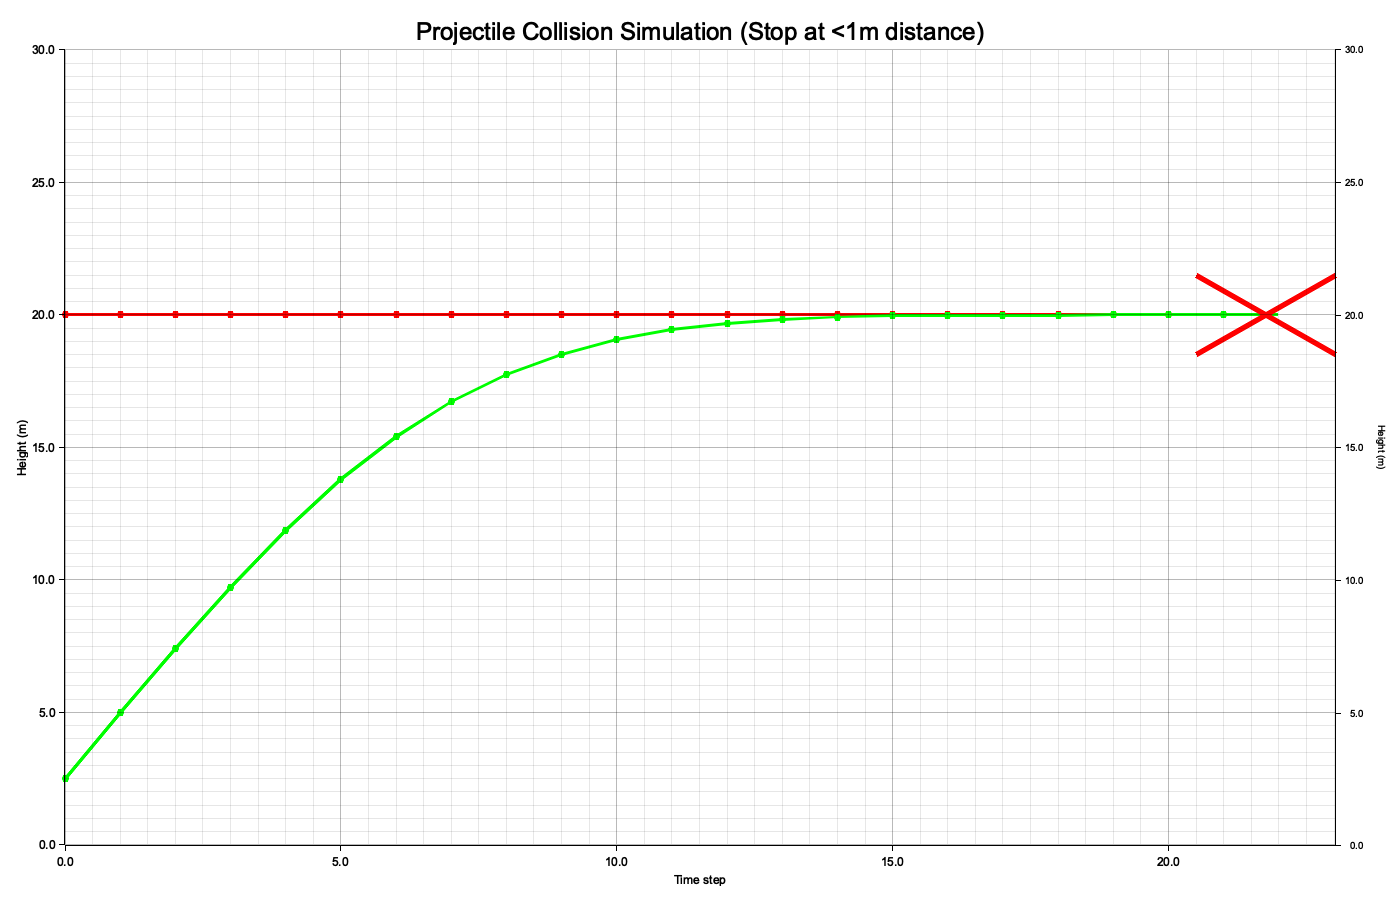
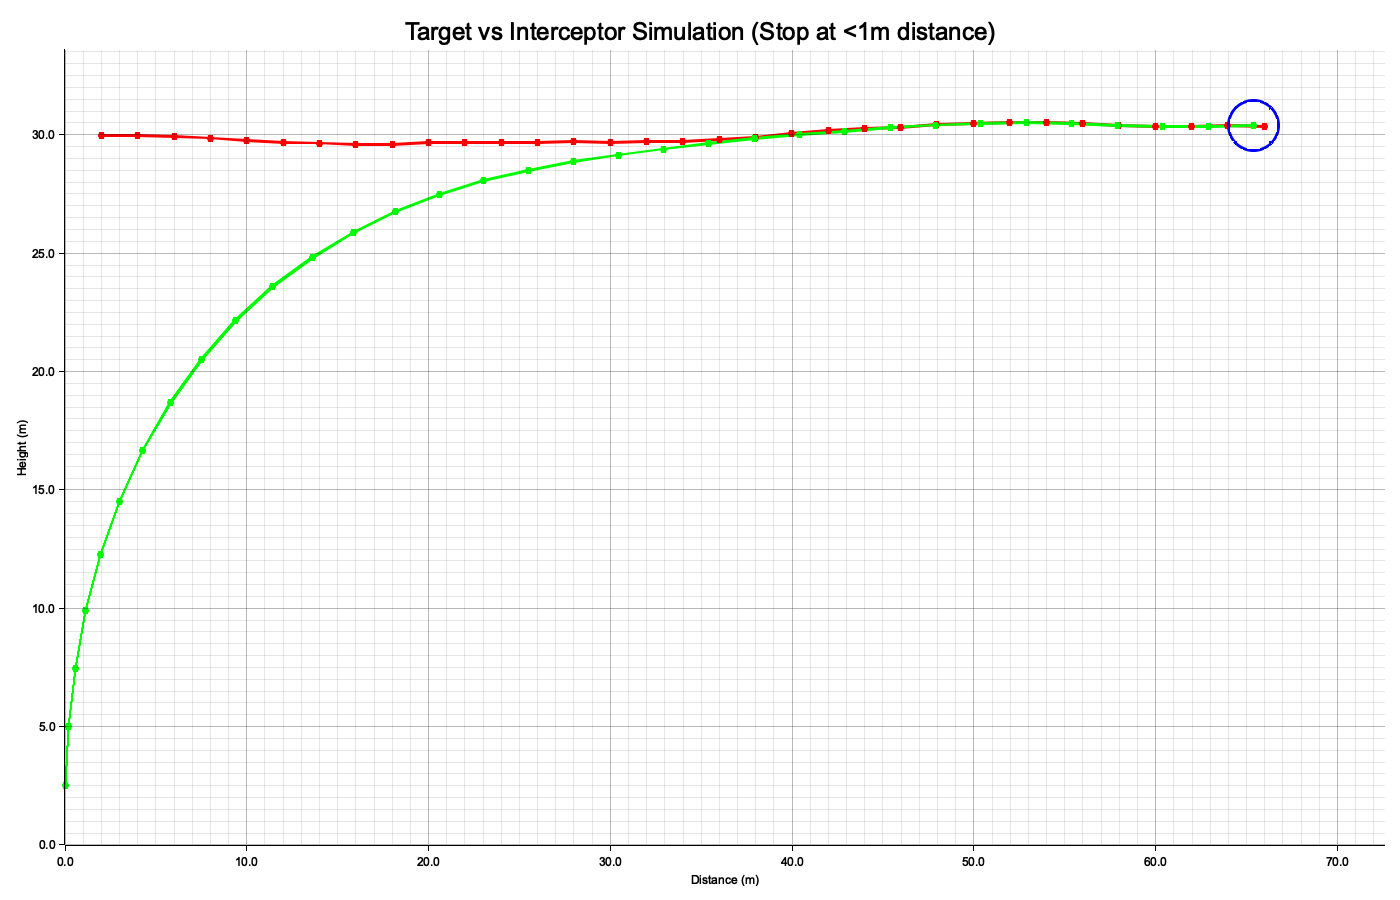
Target changes the height

Changed region(s): [[0.0307, 0.0, 1.0, 0.9644], [0.4914, 0.9644, 0.5529, 0.9956]]

diff --git a/src/main.rs b/src/main.rs
@@ -1,16 +1,17 @@
 use plotters::prelude::*;
+use rand::Rng;
 
 #[derive(Debug, Clone, Copy)]
-struct Projectile {
+pub struct Target {
     x: f64,
     y: f64,
     vx: f64,
     vy: f64,
 }
 
-impl Projectile {
+impl Target {
     fn new(x: f64, y: f64, vx: f64, vy: f64) -> Self {
-        Projectile { x, y, vx, vy }
+        Target { x, y, vx, vy }
     }
 
     fn update(&mut self) {
@@ -19,7 +20,7 @@ impl Projectile {
         self.y += self.vy;
     }
 
-    fn distance_to(&self, other: &Projectile) -> f64 {
+    fn distance_to(&self, other: &Target) -> f64 {
         // Calculate distance to another projectile
         let dx = self.x - other.x;
         let dy = self.y - other.y;
@@ -27,8 +28,10 @@ impl Projectile {
     }
 }
 
+pub type Interceptor = Target;
+
 // Calculate steering direction towards target (unit vector)
-fn calculate_steering_direction(from: &Projectile, to: &Projectile) -> (f64, f64) {
+fn calculate_steering_direction(from: &Interceptor, to: &Target) -> (f64, f64) {
     let dx = to.x - from.x;
     let dy = to.y - from.y;
     let distance = (dx * dx + dy * dy).sqrt();
@@ -54,22 +57,61 @@ fn calculate_angle_between_vectors(vx1: f64, vy1: f64, vx2: f64, vy2: f64) -> f6
 
 fn main() -> Result<(), Box<dyn std::error::Error>> {
     // Initialize projectiles
-    let mut red = Projectile::new(0.0, 20.0, 2.0, 0.0); // Red: 20m height, horizontal
-    let mut green = Projectile::new(0.0, 0.0, 0.0, 0.0); // Green: at ground level
-    let green_speed = 2.5; // Speed of green projectile
+    let mut target = Target::new(0.0, 30.0, 2.0, 0.0); // Red/Target: 30m height, horizontal
+    let mut interceptor = Interceptor::new(0.0, 0.0, 0.0, 0.0); // Green/Interceptor: at ground level
+    let interceptor_speed = 2.5; // Speed of interceptor projectile
+    let mut rng = rand::thread_rng();
 
-    let mut red_positions = vec![];
-    let mut green_positions = vec![];
+    let mut target_positions = vec![];
+    let mut interceptor_positions = vec![];
     let mut collision_point: Option<(f64, f64)> = None;
     let mut collision_angle: Option<f64> = None;
 
     let collision_threshold = 1.0; // Stop at < 1m distance
+    
+    let target_initial_height = 30.0; // Initial/target height for correction
+    let correction_weight = 0.6; // Weight of correction (0.0 = pure random, 1.0 = pure correction)
+    let p_gain = 0.2; // P-Regler Verstärkung (Proportional gain)
 
     // Simulation for 1000 time steps
-    for step in 0..1000 {
-        // Green projectile steers directly towards red
-        let distance = green.distance_to(&red);
-        let (mut dir_x, mut dir_y) = calculate_steering_direction(&green, &red);
+    for _step in 0..1000 {
+        // Collision detection before update: check if we're already close
+        let distance = interceptor.distance_to(&target);
+        
+        if distance < collision_threshold {
+            collision_point = Some((target.x, target.y));
+            
+            // Calculate angle between velocity vectors
+            let angle = calculate_angle_between_vectors(target.vx, target.vy, interceptor.vx, interceptor.vy);
+            collision_angle = Some(angle);
+            
+            break;
+        }
+        
+        // Add random deviation to target's velocity between -5° and +5°
+        let random_angle_deg: f64 = rng.gen_range(-5.0..5.0);
+        
+        // P-Regler: Correction angle proportional to height error
+        let height_error = target.y - target_initial_height;
+        let correction_angle_deg = -height_error * p_gain; // Negative because we want to correct upward when below target
+        
+        // Blend random angle and correction angle based on weight
+        let blended_angle_deg = (random_angle_deg * (1.0 - correction_weight)) 
+                                + (correction_angle_deg * correction_weight);
+        
+        let random_angle_rad = blended_angle_deg.to_radians();
+        
+        // Rotate the target's velocity vector by the random angle
+        let cos_angle = random_angle_rad.cos();
+        let sin_angle = random_angle_rad.sin();
+        let rotated_vx = target.vx * cos_angle - target.vy * sin_angle;
+        let rotated_vy = target.vx * sin_angle + target.vy * cos_angle;
+        
+        target.vx = rotated_vx;
+        target.vy = rotated_vy;
+        
+        // Interceptor steers directly towards target
+        let (mut dir_x, mut dir_y) = calculate_steering_direction(&interceptor, &target);
         
         // Normalize direction vector
         let dir_magnitude = (dir_x * dir_x + dir_y * dir_y).sqrt();
@@ -78,33 +120,23 @@ fn main() -> Result<(), Box<dyn std::error::Error>> {
             dir_y /= dir_magnitude;
         }
         
-        green.vx = dir_x * green_speed;
-        green.vy = dir_y * green_speed;
+        interceptor.vx = dir_x * interceptor_speed;
+        interceptor.vy = dir_y * interceptor_speed;
 
         // Update positions
-        red.update();
-        green.update();
+        target.update();
+        interceptor.update();
 
-        // Store positions
-        red_positions.push((step as f64, red.y));
-        green_positions.push((step as f64, green.y));
-
-        // Collision detection: stop at < 1m
-        if distance < collision_threshold {
-            collision_point = Some((step as f64, red.y));
-            
-            // Calculate angle between velocity vectors
-            let angle = calculate_angle_between_vectors(red.vx, red.vy, green.vx, green.vy);
-            collision_angle = Some(angle);
-            
-            break;
-        }
+        // Store positions (both X and Y coordinates)
+        target_positions.push((target.x, target.y));
+        interceptor_positions.push((interceptor.x, interceptor.y));
+        
     }
 
     // Print collision results after simulation ends
     if collision_point.is_some() {
         if let Some((step_x, _)) = collision_point {
-            println!("✅ Collision occurred at step {} (within 1000 time steps)", step_x as usize);
+            println!("✅ Collision occurred at step {}", step_x as usize);
         }
         if let Some(angle) = collision_angle {
             if angle > 5.0 {
@@ -118,128 +150,90 @@ fn main() -> Result<(), Box<dyn std::error::Error>> {
     }
 
     // Visualization
-    visualize_simulation(&red_positions, &green_positions, collision_point, collision_angle)?;
+    visualize_simulation(&target_positions, &interceptor_positions)?;
 
     Ok(())
 }
 
 
 
-
-
-
 fn visualize_simulation(
-    red_positions: &[(f64, f64)],
-    green_positions: &[(f64, f64)],
-    collision_point: Option<(f64, f64)>,
-    collision_angle: Option<f64>,
+    target_positions: &[(f64, f64)],
+    interceptor_positions: &[(f64, f64)],
 ) -> Result<(), Box<dyn std::error::Error>> {
     let root = BitMapBackend::new("collision_simulation.png", (1400, 900)).into_drawing_area();
     root.fill(&WHITE)?;
 
-    let max_time = red_positions.len() as f64;
-    let max_y = 30.0;
+    // Calculate dynamic boundaries based on data
+    let max_x = target_positions
+        .iter()
+        .chain(interceptor_positions.iter())
+        .map(|(x, _)| *x)
+        .fold(0.0, f64::max)
+        .max(10.0) * 1.1; // Add 10% padding
+
+    let max_y = target_positions
+        .iter()
+        .chain(interceptor_positions.iter())
+        .map(|(_, y)| *y)
+        .fold(0.0, f64::max)
+        .max(10.0) * 1.1; // Add 10% padding
 
     let mut chart = ChartBuilder::on(&root)
-        .caption("Projectile Collision Simulation (Stop at <1m distance)", ("sans-serif", 30))
+        .caption("Target vs Interceptor Simulation (Stop at <1m distance)", ("sans-serif", 30))
         .margin(15)
         .x_label_area_size(40)
         .y_label_area_size(50)
-        .right_y_label_area_size(50)
         .build_cartesian_2d(
-            0f64..max_time,
+            0f64..max_x,
             0f64..max_y,
-        )?
-        .set_secondary_coord(0f64..max_time, 0f64..max_y);
+        )?;
 
-    // Draw red projectile line
+    // Draw target line
     chart
         .draw_series(LineSeries::new(
-            red_positions.iter().copied(),
+            target_positions.iter().copied(),
             ShapeStyle::from(&RED).stroke_width(2),
         ))?
-        .label("Red Projectile (20m altitude)");
+        .label("Target (random evasion)");
 
-    // Draw green projectile line
+    // Draw interceptor line
     chart
         .draw_series(LineSeries::new(
-            green_positions.iter().copied(),
+            interceptor_positions.iter().copied(),
             ShapeStyle::from(&GREEN).stroke_width(2),
         ))?
-        .label("Green Projectile (pursuing)");
+        .label("Interceptor (pursuing)");
 
-    // Draw points and arrows for each simulation step for red projectile
-    for window in red_positions.windows(2) {
-        let (x1, y1) = window[0];
-        
-        // Draw point at current position
+    // Draw points for target
+    for pos in target_positions.iter() {
         chart.draw_series(std::iter::once(Circle::new(
-            (x1, y1),
+            *pos,
             3,
             ShapeStyle::from(&RED).filled(),
         )))?;
     }
 
-    // Draw points and arrows for each simulation step for green projectile
-    for window in green_positions.windows(2) {
-        let (x1, y1) = window[0];
-        
-        // Draw point at current position
+    // Draw points for interceptor
+    for pos in interceptor_positions.iter() {
         chart.draw_series(std::iter::once(Circle::new(
-            (x1, y1),
+            *pos,
             3,
             ShapeStyle::from(&GREEN).filled(),
         )))?;
     }
 
-    // Draw X at collision point
-    if let Some((collision_x, collision_y)) = collision_point {
-        if let Some(angle) = collision_angle {
-            if angle > 5.0 {
-                // Draw green checkmark for angle > 5°
-                let size = 1.5;
-                
-                // Checkmark: first part (bottom-left to middle)
-                chart.draw_series(std::iter::once(PathElement::new(
-                    vec![
-                        (collision_x - size * 0.5, collision_y),
-                        (collision_x - size * 0.2, collision_y + size * 0.3),
-                    ],
-                    ShapeStyle::from(&GREEN).stroke_width(4),
-                )))?;
-                
-                // Checkmark: second part (middle to top-right)
-                chart.draw_series(std::iter::once(PathElement::new(
-                    vec![
-                        (collision_x - size * 0.2, collision_y + size * 0.3),
-                        (collision_x + size * 0.7, collision_y - size * 0.5),
-                    ],
-                    ShapeStyle::from(&GREEN).stroke_width(4),
-                )))?;
-            } else {
-                // Draw red X for angle <= 5°
-                let x_size = 1.5;
-                
-                // Diagonal line 1 (top-left to bottom-right)
-                chart.draw_series(std::iter::once(PathElement::new(
-                    vec![
-                        (collision_x - x_size, collision_y - x_size),
-                        (collision_x + x_size, collision_y + x_size),
-                    ],
-                    ShapeStyle::from(&RED).stroke_width(4),
-                )))?;
-                
-                // Diagonal line 2 (top-right to bottom-left)
-                chart.draw_series(std::iter::once(PathElement::new(
-                    vec![
-                        (collision_x + x_size, collision_y - x_size),
-                        (collision_x - x_size, collision_y + x_size),
-                    ],
-                    ShapeStyle::from(&RED).stroke_width(4),
-                )))?;
-            }
-        }
+    // Draw blue circle at the last position of interceptor
+    if let Some(&last_interceptor_pos) = interceptor_positions.last() {
+        let (collision_x, collision_y) = last_interceptor_pos;
+        
+        chart.draw_series(std::iter::once(Circle::new(
+            (collision_x, collision_y),
+            25,
+            ShapeStyle::from(&BLUE).stroke_width(3),
+        )))?;
     }
+
 
     // Configure axes
     chart
@@ -247,12 +241,7 @@ fn visualize_simulation(
         .x_label_style(("sans-serif", 15))
         .y_label_style(("sans-serif", 15))
         .y_desc("Height (m)")
-        .x_desc("Time step")
-        .draw()?;
-
-    chart
-        .configure_secondary_axes()
-        .y_desc("Height (m)")
+        .x_desc("Distance (m)")
         .draw()?;
 
     root.present()?;
